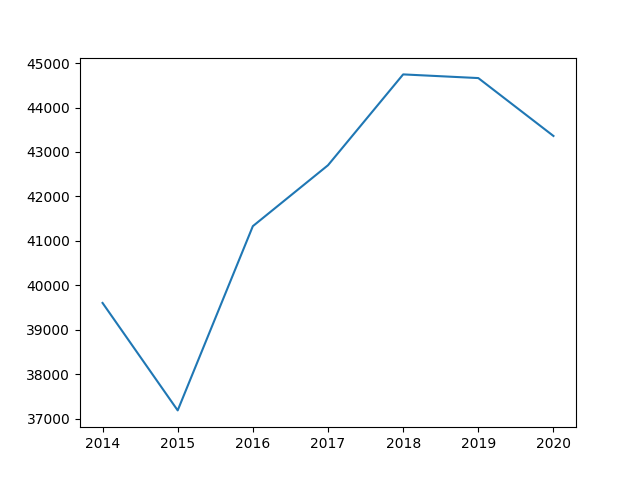
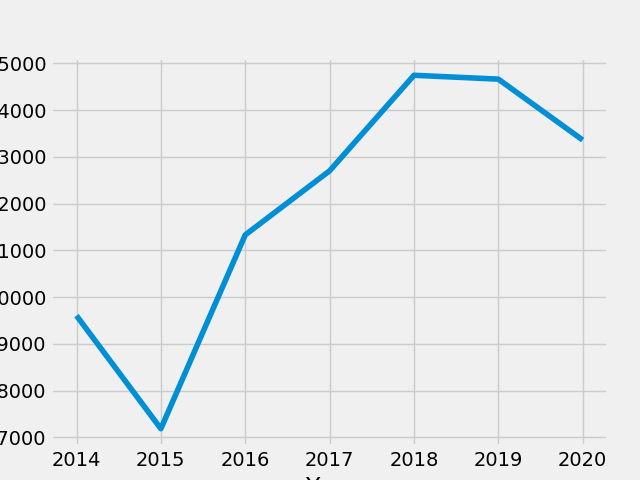
new and improved

diff --git a/templates/index.html b/templates/index.html
@@ -3,7 +3,8 @@
 <title>Analysis of Public Sector Salaries</title>
 </head>
 <body>
-Here is some data, displayed in charts.
+<h1>Data Analysis of Public Sector Salaries</h1>
+Here is average gross money paid per year.
 <br>
 <img src="{{url_for('static',filename='graph.png')}}"/>
 </body>

diff --git a/project.py b/project.py
@@ -8,6 +8,9 @@ fiscal=df[["Fiscal Year","Regular Gross Paid"]]
 print(fiscal)
 fiscal=fiscal.groupby("Fiscal Year").mean()
 print(fiscal)
+plt.style.use('fivethirtyeight')
+plt.xlabel("Year")
+plt.ylabel("Regular Gross Paid($)")
 plt.plot(fiscal.index,fiscal['Regular Gross Paid'])
 plt.savefig("graph.png")
 plt.show()
